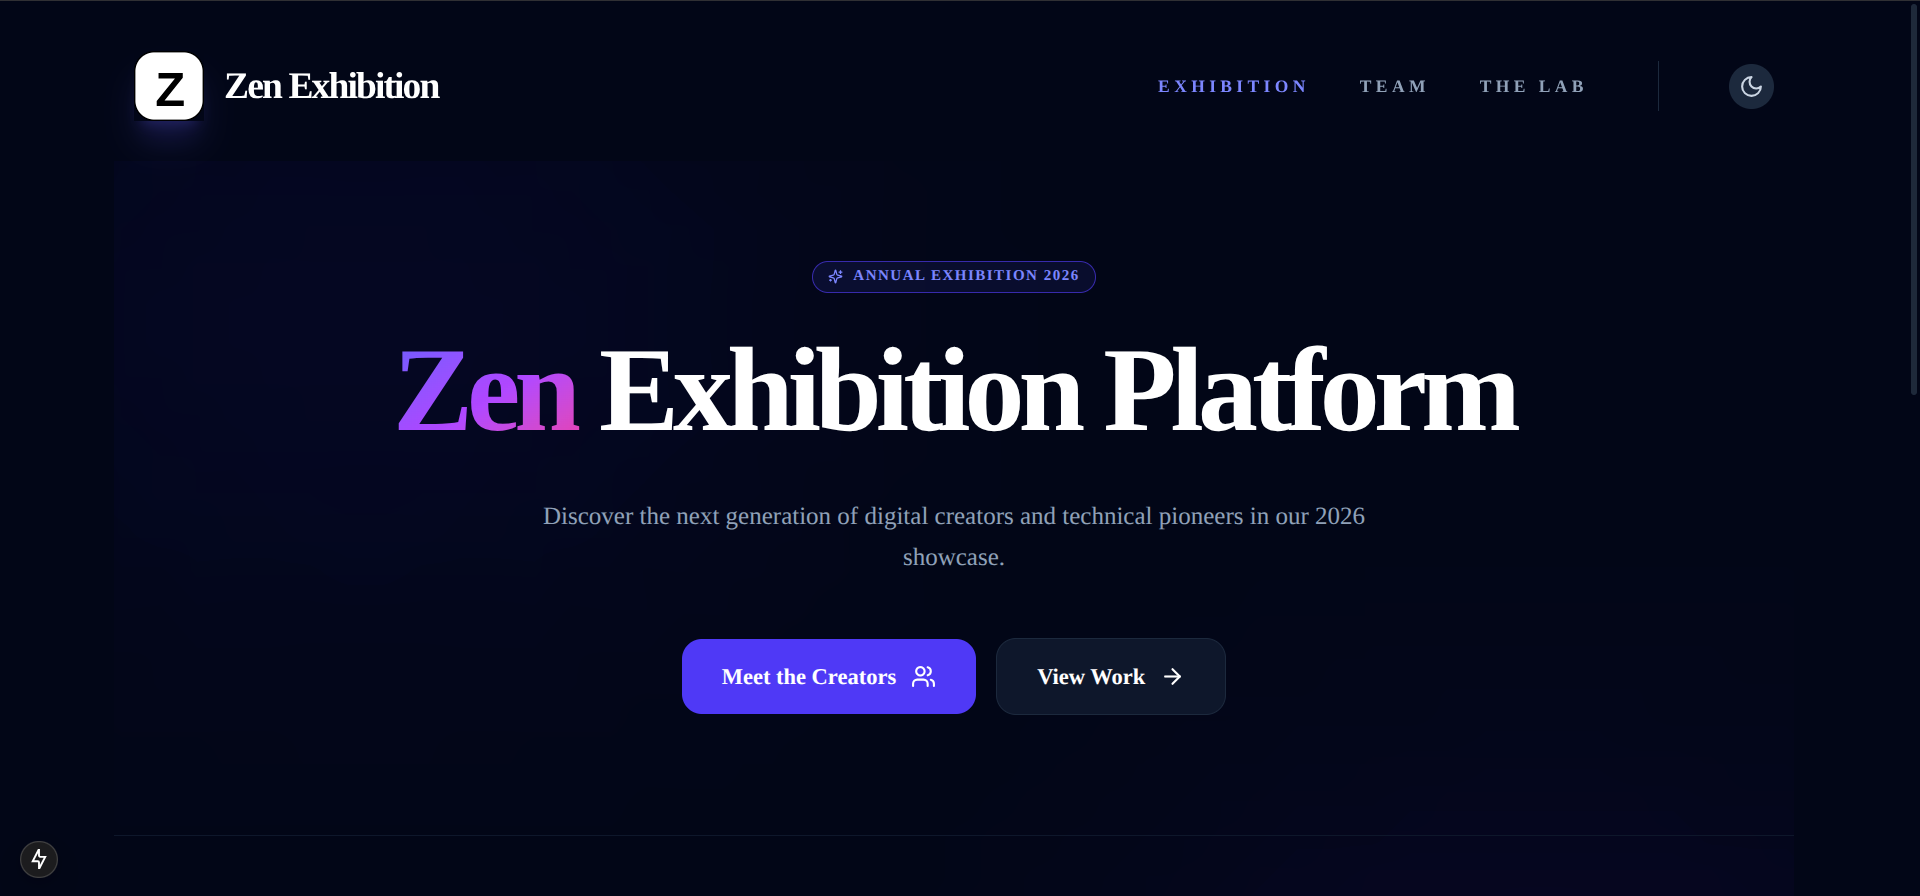
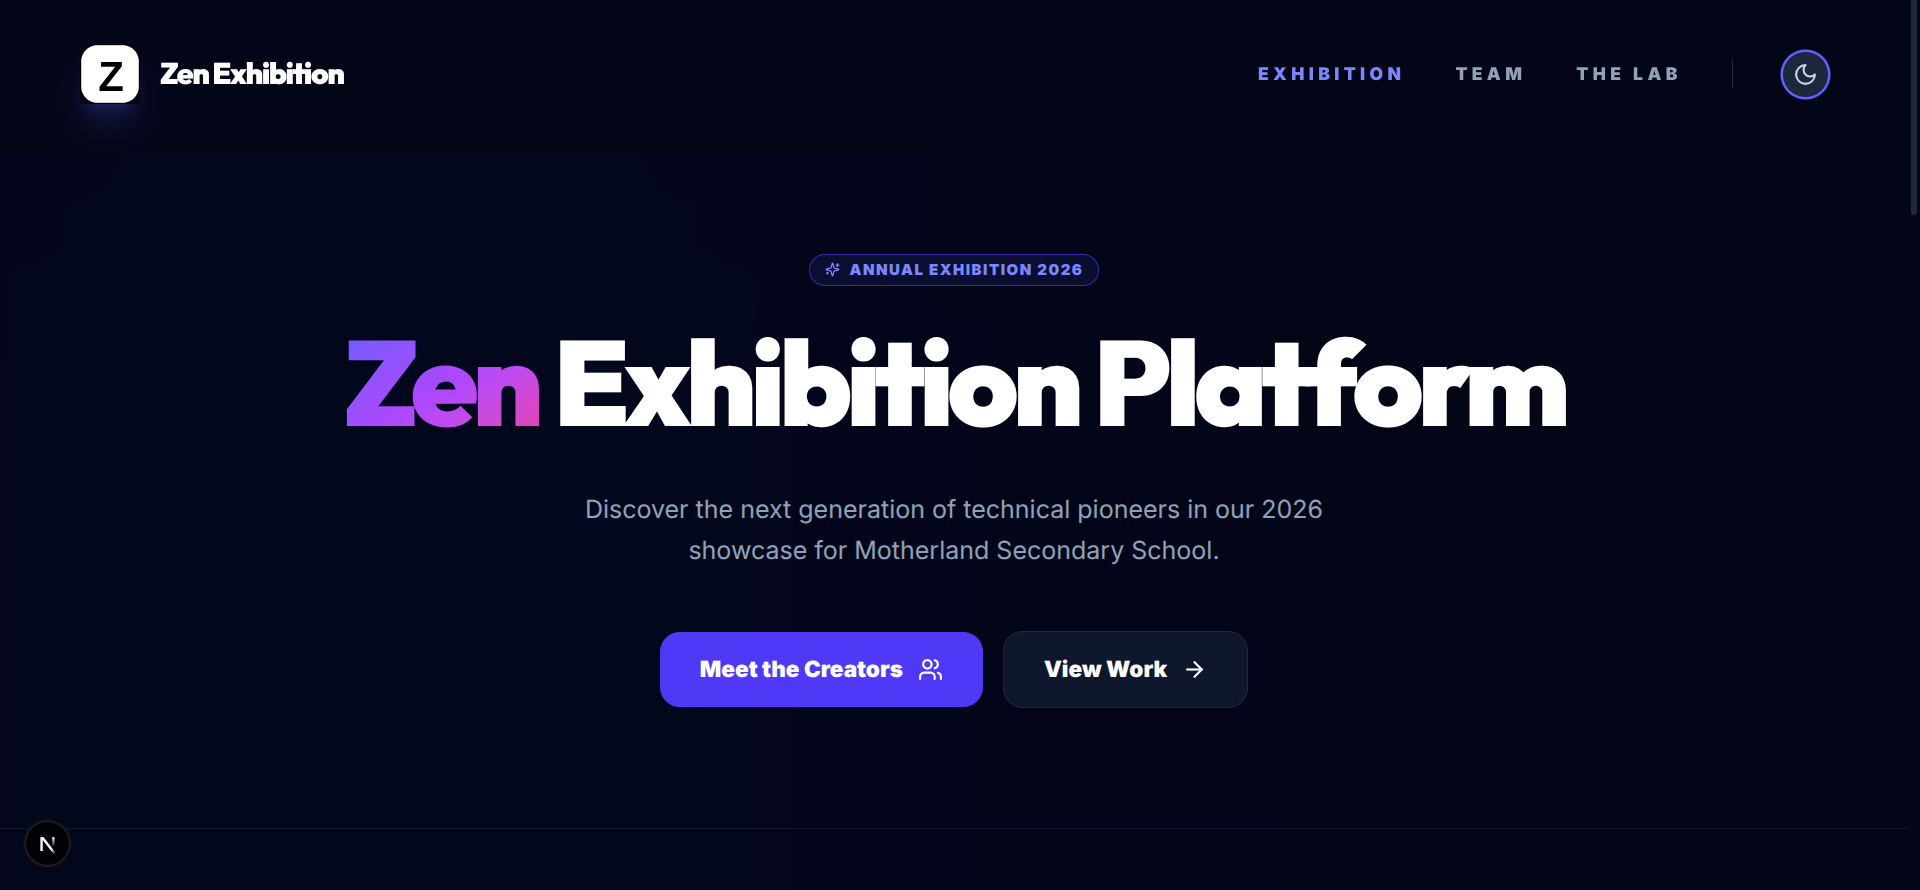
new content intergration

diff --git a/app/page.js b/app/page.js
@@ -11,9 +11,9 @@ export default function Home() {
   return (
     <div className="relative overflow-hidden">
       {/* Subtle Background */}
-      <div className="absolute inset-0 z-0">
-        <div className="absolute top-[-10%] left-[-10%] w-[50%] h-[50%] rounded-full bg-indigo-500/10 dark:bg-indigo-600/5 blur-[120px]" />
-        <div className="absolute bottom-[-10%] right-[-10%] w-[50%] h-[50%] rounded-full bg-purple-500/10 dark:bg-purple-600/5 blur-[120px]" />
+      <div className="absolute inset-0 z-0 pointer-events-none overflow-hidden">
+        <div className="absolute top-[-10%] left-[-10%] w-[60%] h-[60%] rounded-full bg-indigo-500/5 dark:bg-indigo-600/3 blur-[180px]" />
+        <div className="absolute bottom-[-10%] right-[-10%] w-[60%] h-[60%] rounded-full bg-purple-500/5 dark:bg-purple-600/3 blur-[180px]" />
       </div>
 
       {/* Hero Section - Refined Pro Sizing */}
@@ -74,7 +74,7 @@ export default function Home() {
 
       {/* Stats Grid - Dynamic from Config */}
       <section className="relative z-10 py-16 border-t border-slate-100 dark:border-slate-900">
-        <div className="grid grid-cols-1 sm:grid-cols-2 lg:grid-cols-3 gap-6 md:gap-8">
+        <div className="grid grid-cols-1 sm:grid-cols-2 lg:grid-cols-3 gap-6 md:gap-8 max-w-[1600px] mx-auto px-6">
           <div className="p-6 md:p-8 rounded-3xl bg-white dark:bg-slate-900 border border-slate-200 dark:border-slate-800 shadow-sm transition-transform hover:-translate-y-2">
             <div className="w-12 h-12 bg-indigo-50 dark:bg-indigo-900/20 rounded-xl flex items-center justify-center text-indigo-600 dark:text-indigo-400 mb-6">
               <FolderKanban size={24} />
@@ -98,6 +98,60 @@ export default function Home() {
           </div>
         </div>
       </section>
+
+      {/* Dynamic Content Sections */}
+      {configData.contentSections && configData.contentSections.map((section, index) => (
+        <section key={index} className="relative z-10 py-24 md:py-32 overflow-hidden">
+          <div className="max-w-[1600px] mx-auto px-6 md:px-16">
+            <div className={`flex flex-col ${section.imageSide === 'right' ? 'md:flex-row-reverse' : 'md:flex-row'} items-center gap-16 md:gap-24`}>
+              {/* Image Side */}
+              <motion.div 
+                initial={{ opacity: 0, x: section.imageSide === 'right' ? 40 : -40 }}
+                whileInView={{ opacity: 1, x: 0 }}
+                viewport={{ once: true, margin: "-100px" }}
+                transition={{ duration: 0.8, ease: "easeOut" }}
+                className="w-full md:w-1/2"
+              >
+                <div className="relative group">
+                  <div className="absolute -inset-4 bg-gradient-to-r from-indigo-500/20 to-purple-500/20 rounded-[2.5rem] blur-2xl opacity-0 group-hover:opacity-100 transition-opacity duration-500" />
+                  <motion.img 
+                    src={section.image} 
+                    alt={section.title}
+                    whileHover={{ scale: 1.02, rotate: section.imageSide === 'left' ? -1 : 1 }}
+                    transition={{ type: 'spring', stiffness: 300, damping: 20 }}
+                    className="relative w-full h-auto max-h-[400px] md:max-h-[600px] object-contain rounded-[2.5rem] shadow-2xl border border-slate-200/50 dark:border-slate-800/50"
+                  />
+                </div>
+              </motion.div>
+
+              {/* Content Side */}
+              <motion.div 
+                initial={{ opacity: 0, y: 20 }}
+                whileInView={{ opacity: 1, y: 0 }}
+                viewport={{ once: true }}
+                className="w-full md:w-1/2 space-y-6"
+              >
+                <h2 className="text-4xl md:text-6xl font-black tracking-tighter text-slate-900 dark:text-white leading-[0.95]">
+                  {section.title}
+                </h2>
+                <div className="w-20 h-1.5 bg-gradient-to-r from-indigo-500 to-purple-500 rounded-full" />
+                <p className="text-lg md:text-xl text-slate-500 dark:text-slate-400 leading-relaxed font-medium">
+                  {section.description}
+                </p>
+                <div className="pt-4">
+                  <Link 
+                    href={section.ctaLink || '/projects'} 
+                    className="group inline-flex items-center gap-3 text-indigo-600 dark:text-indigo-400 font-black uppercase tracking-widest text-sm hover:gap-5 transition-all"
+                  >
+                    <span>{section.ctaText || 'Explore Innovation'}</span>
+                    <ArrowRight className="w-4 h-4" />
+                  </Link>
+                </div>
+              </motion.div>
+            </div>
+          </div>
+        </section>
+      ))}
     </div>
   );
 }

diff --git a/components/MembersClient.js b/components/MembersClient.js
@@ -37,7 +37,7 @@ export default function MembersClient({ initialMembers, projectCountMap }) {
   }, [filters.search, filteredMembers.length]);
 
   return (
-    <div className="flex flex-col gap-12">
+    <div className="max-w-[1600px] mx-auto px-6 md:px-12 flex flex-col gap-12">
       {/* Normalized Header */}
       <section className="flex flex-col md:flex-row md:items-end justify-between gap-4 border-b border-slate-200 dark:border-slate-800 pb-8 md:pb-12">
         <div>
@@ -54,7 +54,7 @@ export default function MembersClient({ initialMembers, projectCountMap }) {
       </section>
 
       {/* Sticky Filter Bar */}
-      <div className="sticky top-24 z-40 bg-slate-50/90 dark:bg-slate-950/90 backdrop-blur-xl border-b border-slate-200 dark:border-slate-800 py-4 -mx-4 px-4 sm:-mx-6 sm:px-6 md:-mx-12 md:px-12">
+      <div className="sticky top-24 z-40 bg-slate-50/90 dark:bg-slate-950/90 backdrop-blur-xl border-b border-slate-200 dark:border-slate-800 py-4">
         <div className="flex flex-col gap-3">
           {/* Top row: Search + Toggle */}
           <div className="flex items-center gap-3">

diff --git a/app/projects/page.js b/app/projects/page.js
@@ -16,7 +16,7 @@ export default function ProjectsPage() {
   });
 
   return (
-    <div className="flex flex-col gap-12">
+    <div className="max-w-[1600px] mx-auto px-6 md:px-12 flex flex-col gap-12">
       {/* Normalized Header */}
       <section className="border-b border-slate-200 dark:border-slate-800 pb-12">
         <div className="inline-flex items-center gap-2 px-3 py-1 rounded-full bg-white dark:bg-indigo-900/20 border border-slate-200 dark:border-indigo-800 text-indigo-600 dark:text-indigo-400 text-xs font-black uppercase tracking-widest mb-6 shadow-sm">

diff --git a/components/Navbar.js b/components/Navbar.js
@@ -52,7 +52,7 @@ export default function Navbar() {
             : 'bg-transparent py-10'
         )}
       >
-        <div className="max-w-[1440px] mx-auto w-full flex items-center justify-between px-16">
+        <div className="max-w-[1600px] mx-auto w-full flex items-center justify-between px-16">
           <SmartLink href="/" className="flex items-center gap-4 group">
             <img
               src="/logo.svg"

diff --git a/app/layout.js b/app/layout.js
@@ -54,7 +54,7 @@ export default function RootLayout({ children }) {
           </Suspense>
           <LoadingOverlay />
           <Navbar />
-        <main className="flex-grow w-full max-w-[1440px] mx-auto px-4 sm:px-6 md:px-12 pt-28 md:pt-32 pb-16 md:pb-20">
+        <main className="flex-grow w-full pt-28 md:pt-32 pb-16 md:pb-20">
           <ErrorBoundary>
             {children}
           </ErrorBoundary>

diff --git a/utils/telemetryClient.js b/utils/telemetryClient.js
@@ -11,7 +11,9 @@ if (typeof window !== 'undefined') {
     api_host: process.env.NEXT_PUBLIC_POSTHOG_HOST || 'https://app.posthog.com',
     autocapture: true,
     capture_pageview: true,
-    persistence: 'localStorage'
+    persistence: 'localStorage',
+    // Disable session recording to prevent console errors from ad-blockers
+    disable_session_recording: true 
   });
 }
 
